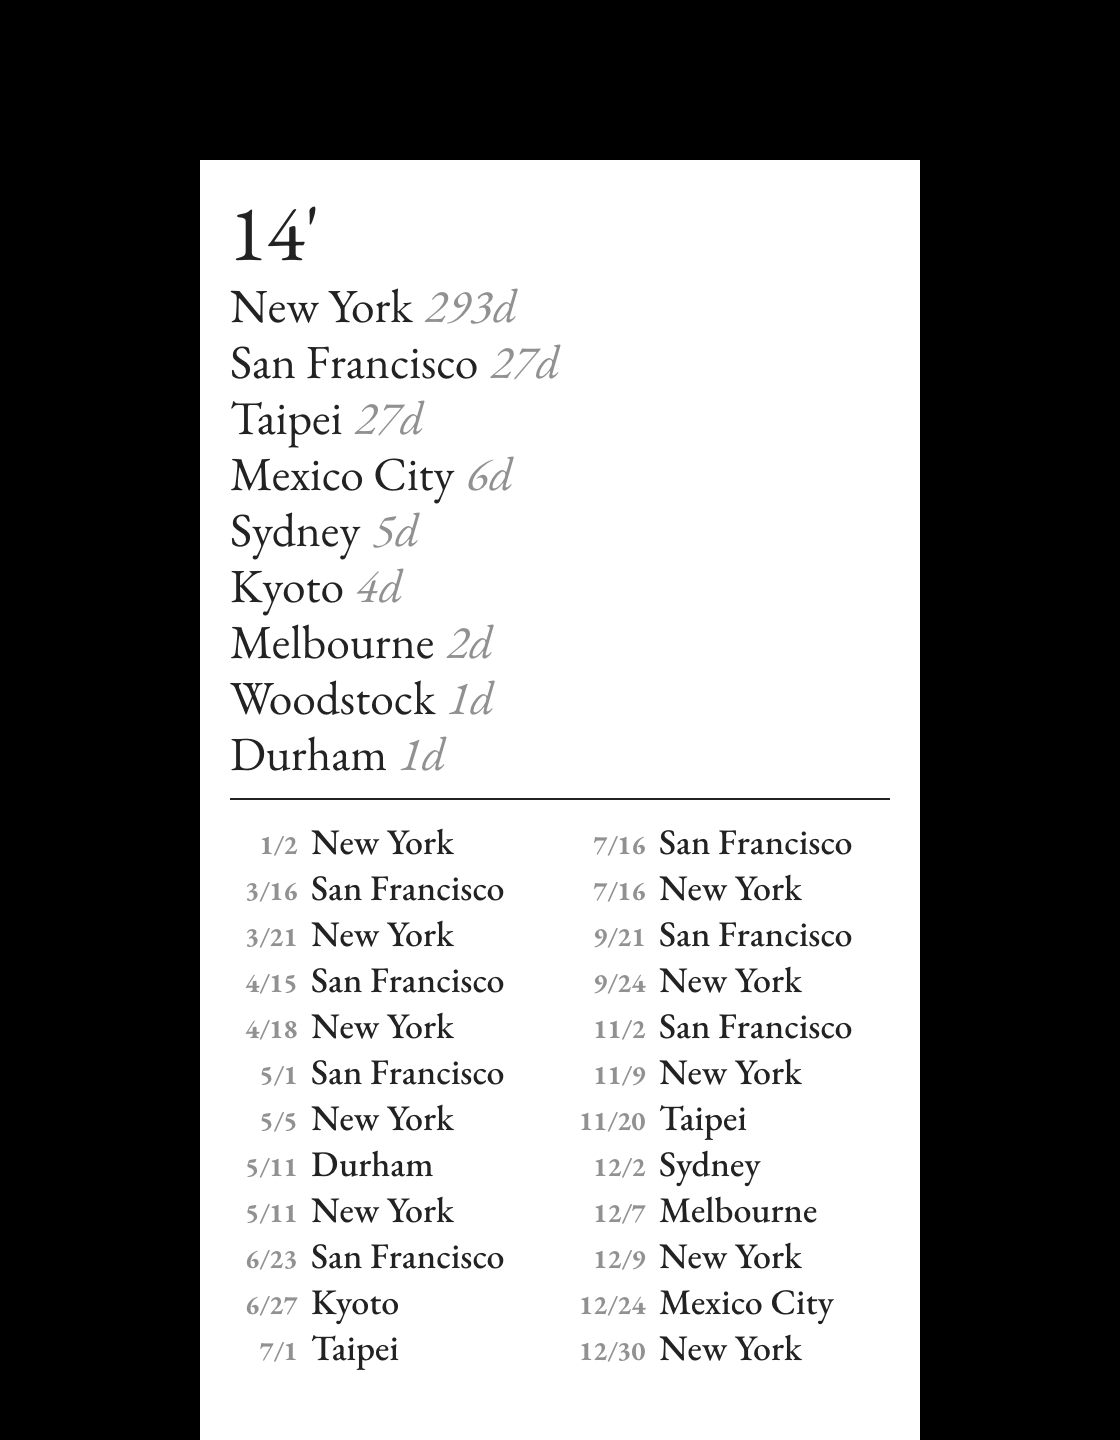
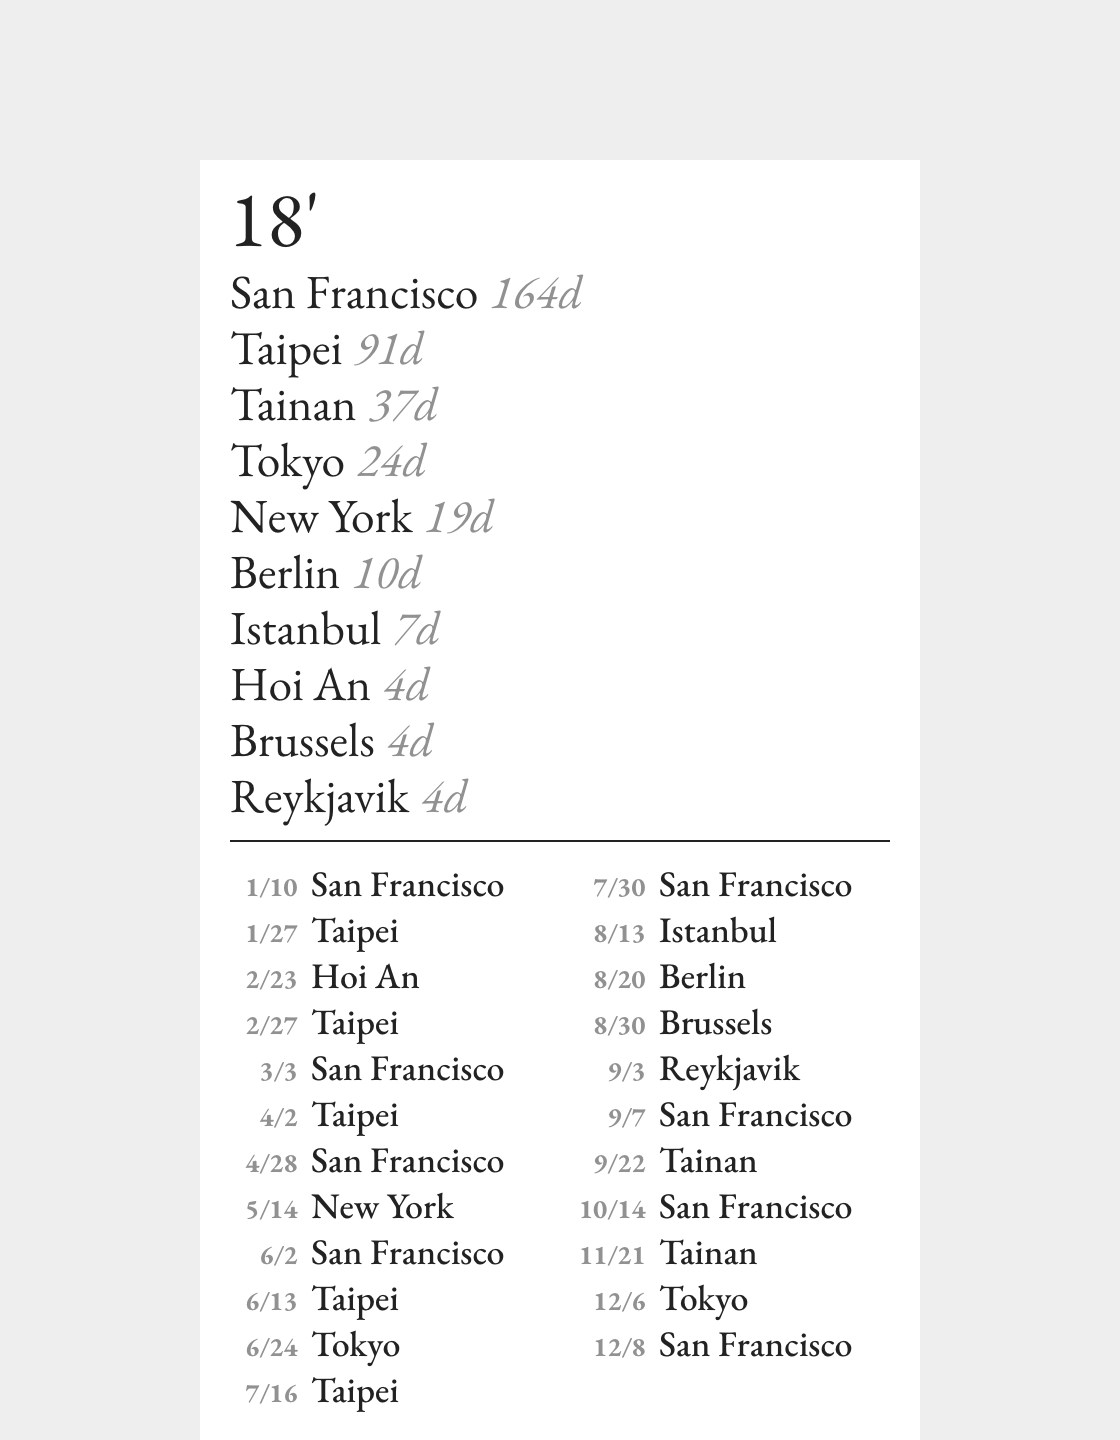
updated images

diff --git a/src/projects/travel-log.md b/src/projects/travel-log.md
@@ -2,14 +2,14 @@
 title: "Travel Log"
 description: "Yuin's travel records since 05'"
 date: "2017-09-10"
-cover: "./../images/travel-log/cover.png"
+cover: "./../images/travel-log/08.png"
 ---
 
 <div class="text">I keep my travel records in a Google Spreadsheet to track the cities and dates over the years. The website design aims to present the geo data in meaningful ways, for example the color theme reflects my current local time (day/night time). Link to website: <a href="https://yuinchien.com/projects/travel-log/" target="_blank">yuinchien.com/projects/travel-log</a>.</div>
 
 <div class="row two">
-  <img src="./../images/travel-log/00.png" />
-  <img src="./../images/travel-log/02.png" />
+  <img src="./../images/travel-log/06.png" />
+  <img src="./../images/travel-log/08.png" />
 </div>
 
 <div class="row two">
